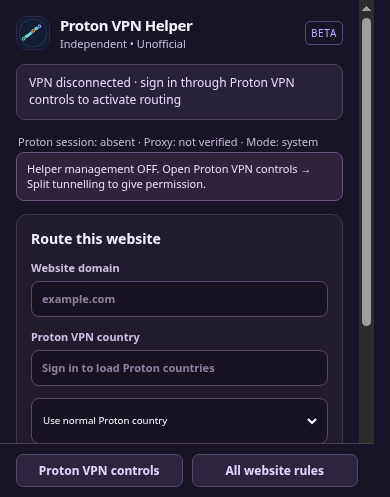
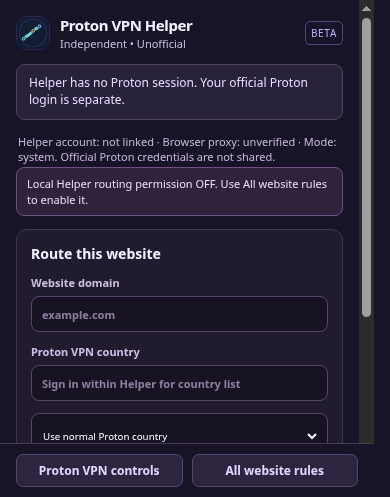
fix: clarify official Proton and Helper account boundaries
Official Proton session is isolated and cannot be imported by the Helper. Report the Helper session separately from another extension's active proxy; never imply the official VPN has disconnected. Headless Chromium and proxy coexistence tests passed; live account piggyback remains unsupported.

diff --git a/source/js/siteRouter/quickPopup.ts b/source/js/siteRouter/quickPopup.ts
@@ -5,6 +5,7 @@ import type {StoredWebsiteFilterList} from '../vpn/WebsiteFilter';
 import {SPLIT_CONSENT_KEY,hasSplitConsent} from './splitConsent';
 import type {HelperCountry,HelperCountryCatalog} from './countryCatalog';
 import {AUTO_PROBE_KEY} from './healthPreferences';
+import {connectionLabel,connectionDetail} from './connectionLabels';
 
 function element<T extends HTMLElement>(id:string):T {
   const found=document.getElementById(id);
@@ -102,7 +103,7 @@ async function refreshCountries():Promise<void> {
     updateFlag(old);
     element<HTMLInputElement>('country-search').disabled=!catalog.authenticated||!catalog.countries.length;
     if(!catalog.authenticated){
-      sourceLabel('Sign into Proton to load the same countries and flags as its original server list. No destinations are assumed.');
+      sourceLabel('Sign into Proton within the Helper to load account-eligible countries. Your official extension login is separate.');
     }else if(catalog.error){
       sourceLabel('Proton catalogue unavailable: '+catalog.error);
     }else if(!catalog.entitled){
@@ -112,7 +113,7 @@ async function refreshCountries():Promise<void> {
         catalog.countries.length+' shown including unavailable/upgrade locations.');
     }
     element<HTMLInputElement>('country-search').placeholder=catalog.authenticated?
-      'Search Proton countries':'Sign in to load Proton countries';
+      'Search Proton countries':'Sign in within Helper for country list';
     drawCountryList();
   }catch {
     providerCatalog=undefined;
@@ -149,8 +150,8 @@ async function getActiveTabHost():Promise<string|undefined> {
 async function refreshConsent():Promise<void> {
   delegated=await hasSplitConsent().catch(()=>false);
   element('helper-authority').textContent=delegated
-    ? 'Helper management allowed by Proton settings. Country rules may be applied when the VPN is connected.'
-    : 'Helper management OFF. Open Proton VPN controls → Split tunnelling to give permission.';
+    ? 'Local Helper routing permission enabled. Official Proton account sign-in and connection are separate.'
+    : 'Local Helper routing permission OFF. Use All website rules to enable it.';
   element<HTMLInputElement>('auto-detect').disabled=!delegated;
   element<HTMLInputElement>('auto-retry').disabled=!delegated;
 }
@@ -161,17 +162,9 @@ async function refreshConnection():Promise<void> {
       {connected?:boolean;proxyControl?:string;proxyMode?:string;signedIn?:boolean;
         ownsProxy?:boolean;selectedCountry?:string;selectedServer?:string};
     connectionOK=data?.connected===true;
-    element('connection-details').textContent=
-      'Proton session: '+(data?.signedIn?'present':'absent')+
-      ' · Proxy: '+(data?.ownsProxy?'owned by Helper':'not verified')+
-      ' · Mode: '+(data?.proxyMode||'unknown');
+    element('connection-details').textContent=connectionDetail(data);
     element<HTMLButtonElement>('verify-exit').disabled=!connectionOK;
-    status.textContent=connectionOK
-      ? 'Proton connected'+(data.selectedCountry ? ' · '+data.selectedCountry : '')+' · exit IP not verified'
-      : data?.proxyControl==='controlled_by_other_extensions'
-        ? 'Another extension controls the proxy · routes unavailable'
-        : data?.signedIn ? 'Proton session found (not independently validated) · VPN disconnected'
-          : 'VPN disconnected · sign in through Proton VPN controls to activate routing';
+    status.textContent=connectionLabel(data);
   }catch {
     connectionOK=false;
     element('connection-details').textContent='Connection diagnostics unavailable.';
@@ -262,7 +255,7 @@ async function refreshSite():Promise<void> {
       c.code===countrySelect().value && c.available));
   saveButton().disabled=!hasEligibleSelection;
   saveButton().textContent=!providerCatalog?.authenticated
-    ? 'Sign in to load Proton countries'
+    ? 'Sign in within Helper for country list'
     : 'Save website route';
   if (currentIssue.kind==='excluded') {
     notice.classList.remove('hidden');

diff --git a/tests/site_router.test.ts b/tests/site_router.test.ts
@@ -3,6 +3,7 @@ import {buildRoutePacCases, siteRouteBypassGuard} from '../source/js/siteRouter/
 import {evaluateSiteSplitConflict} from '../source/js/siteRouter/splitConflict';
 import {SplitTunnelingMode} from '../source/js/vpn/WebsiteFilter';
 import {helperMayRoute} from '../source/js/siteRouter/consentGate';
+import {connectionLabel,connectionDetail} from '../source/js/siteRouter/connectionLabels';
 import {countriesFromProtonLogicals} from '../source/js/siteRouter/countryCatalog';
 import {classifyBlock, DEFAULT_POLICY, findRule, normalizeDomain, validatePolicy} from '../source/js/siteRouter/policy';
 
@@ -149,4 +150,22 @@ test('Proton-derived catalog mirrors country availability and upgrade locks',()=
   assert.equal(plus.find(c=>c.code==='CH')?.serverCount,2);
   assert.equal(plus.find(c=>c.code==='GB')?.name,'United Kingdom');
   assert.equal(plus.filter(c=>c.available).length,4);
+});
+
+test('status distinguishes official Proton from Helper-owned account',()=>{
+  const separate=connectionLabel({connected:false,signedIn:false,proxyControl:'controlled_by_other_extensions'});
+  assert.match(separate,/Another extension controls/);
+  assert.match(separate,/cannot read/);
+  assert.doesNotMatch(separate,/VPN disconnected|Proton disconnected/);
+  const missing=connectionLabel({connected:false,signedIn:false,proxyControl:'controllable_by_this_extension'});
+  assert.match(missing,/Helper has no Proton session/);
+  assert.match(missing,/official Proton login is separate/);
+  const own=connectionLabel({connected:true,signedIn:true,ownsProxy:true,selectedCountry:'CH'});
+  assert.match(own,/Helper Proton connection reported active/);
+  assert.match(own,/external exit IP not verified/);
+  const pending=connectionLabel({connected:false,signedIn:true,ownsProxy:false});
+  assert.match(pending,/Helper has its own Proton session/);
+  const detail=connectionDetail({signedIn:false,proxyControl:'controlled_by_other_extensions',proxyMode:'pac_script'});
+  assert.match(detail,/Browser proxy: another extension/);
+  assert.match(detail,/Official Proton credentials are not shared/);
 });

diff --git a/source/js/siteRouter/connectionLabels.ts b/source/js/siteRouter/connectionLabels.ts
@@ -1,0 +1,38 @@
+/** A helper-owned Proton session is NOT the session of the official
+ * Proton VPN extension. Browser extension storage is isolated.
+ * Another proxy owner cannot be identified or treated as authenticated.
+ */
+export interface HelperConnectionView {
+  connected?: boolean;
+  signedIn?: boolean;
+  ownsProxy?: boolean;
+  proxyControl?: string;
+  proxyMode?: string;
+  selectedCountry?: string;
+}
+
+export function connectionLabel(state?: HelperConnectionView): string {
+  if (!state) return 'Helper connection status unavailable · VPN protection not verified';
+  if (state.connected) {
+    return 'Helper Proton connection reported active'+
+      (state.selectedCountry ? ' · '+state.selectedCountry : '')+
+      ' · external exit IP not verified';
+  }
+  if (state.proxyControl === 'controlled_by_other_extensions') {
+    return 'Another extension controls Brave’s proxy. Helper cannot read that extension’s Proton login.';
+  }
+  if (state.signedIn) {
+    return 'Helper has its own Proton session, but its VPN connection is not active.';
+  }
+  return 'Helper has no Proton session. Your official Proton login is separate.';
+}
+
+export function connectionDetail(state?: HelperConnectionView): string {
+  if (!state) return 'Helper connection diagnostics unavailable.';
+  const owner = state.ownsProxy ? 'Helper' :
+    state.proxyControl === 'controlled_by_other_extensions' ? 'another extension' : 'unverified';
+  return 'Helper account: '+(state.signedIn?'session present':'not linked')+
+    ' · Browser proxy: '+owner+
+    ' · Mode: '+(state.proxyMode || 'unknown')+
+    '. Official Proton credentials are not shared.';
+}

diff --git a/source/js/siteRouter/options.ts b/source/js/siteRouter/options.ts
@@ -1,4 +1,5 @@
 import {SPLIT_CONSENT_KEY,hasSplitConsent,setSplitConsent} from './splitConsent';
+import {connectionLabel} from './connectionLabels';
 import {DEFAULT_POLICY, STORE_KEY, validatePolicy, normalizeDomain, normalizeCountry,
 	type SiteRule, type SiteRouterPolicy} from './policy';
 
@@ -53,6 +54,7 @@ function render(policy: SiteRouterPolicy): void {
 }
 interface VpnStatus {
 	connected?: boolean;
+	signedIn?: boolean;
 	ownsProxy?: boolean;
 	proxyControl?: string;
 	delegated?: boolean;
@@ -71,9 +73,7 @@ async function refreshVpnStatus(): Promise<void> {
 	try {
 		const info = await chrome.runtime.sendMessage({type:'protonSiteRouterStatus'}) as VpnStatus;
 		if (!info?.connected) {
-			status.textContent = info?.proxyControl === 'controlled_by_other_extensions'
-				? 'Proxy controlled by another extension — routing unavailable'
-				: 'VPN disconnected — country routes not active';
+			status.textContent = connectionLabel(info);
 		} else {
 			const p = await fetchPolicy();
 			status.textContent = !info.delegated

diff --git a/source/js/siteRouter/providerCountries.ts b/source/js/siteRouter/providerCountries.ts
@@ -27,7 +27,7 @@ export async function listProtonCountries():Promise<HelperCountryCatalog> {
       if(!user?.VPN) return {authenticated:true,entitled:false,
         countries:[],generatedAt:Date.now(),error:'Subscription details unavailable'};
       const entitled=user.VPN.BrowserExtension === true;
-      // This is exactly the source used by Proton's original country picker.
+      // This is the same catalogue code as the original picker, but requires a Helper-owned login.
       const logicals=await getSortedLogicals();
       const countries=countriesFromProtonLogicals(logicals,getUserMaxTier(user),
         c=>getCountryNameOrCode(c));

diff --git a/source/helper-popup.html b/source/helper-popup.html
@@ -22,7 +22,7 @@
       <input id="site-host" type="text" autocomplete="off" spellcheck="false" placeholder="example.com">
     </label>
     <label class="field" for="country-search">Proton VPN country
-      <input id="country-search" type="search" autocomplete="off" spellcheck="false" placeholder="Sign in to load Proton countries">
+      <input id="country-search" type="search" autocomplete="off" spellcheck="false" placeholder="Sign in within Helper to load countries">
     </label>
     <div class="country-choice">
       <img id="current-country-flag" alt="" width="20" height="15" hidden>

diff --git a/tests/toolbar_integration.py b/tests/toolbar_integration.py
@@ -77,7 +77,7 @@ def main():
 
             for _ in range(40):
                 state=js("return document.querySelector('#vpn-status')?.textContent")
-                if state and 'VPN disconnected' in state: break
+                if state and 'Helper has no Proton session' in state: break
                 time.sleep(.15)
             else:
                 diagnostic=js("return Promise.race([chrome.runtime.sendMessage({type:'protonSiteRouterStatus'}).then(v=>({ok:v})).catch(e=>({error:String(e)})),new Promise(ok=>setTimeout(()=>ok({timeout:true}),1800))])")
@@ -108,7 +108,7 @@ def main():
             print('PASS bundled original Proton country SVG flags, no fabricated signed-out country list')
             catalog=js("return chrome.runtime.sendMessage({type:'protonSiteRouterCountries'})")
             assert catalog['authenticated'] is False and catalog['countries']==[], catalog
-            assert 'Sign into Proton' in js("return document.querySelector('#country-source').textContent")
+            assert 'Sign into Proton within the Helper' in js("return document.querySelector('#country-source').textContent")
             alarm=js("return chrome.alarms.get('protonVpnHelperConnectionHealth')")
             assert alarm and alarm['periodInMinutes']>=1,alarm
             health=js("return chrome.runtime.sendMessage({type:'protonSiteRouterHealth'})")
@@ -129,7 +129,7 @@ def main():
             print('PASS truthful disconnected state and automatic switching off by default')
             # Delegation is OFF by default. The Helper must not be able to
             # modify split tunnelling or activate a country route yet.
-            assert 'management OFF' in js("return document.querySelector('#helper-authority').textContent")
+            assert 'permission OFF' in js("return document.querySelector('#helper-authority').textContent")
             assert js("return document.querySelector('#save-route').disabled") is True
             consent_key='protonVpnHelperManageSplitTunnelingV1'
             assert js("return chrome.storage.local.get(arguments[0]).then(v=>v[arguments[0]]===true)",consent_key) is False
@@ -188,7 +188,7 @@ def main():
             wd('POST','/url',{'url':f'chrome-extension://{EXT_ID}/helper-popup.html'})
             for _ in range(45):
                 state=js("return document.querySelector('#helper-authority')?.textContent")
-                if state and 'management allowed' in state:break
+                if state and 'routing permission enabled' in state:break
                 time.sleep(.15)
             else:raise AssertionError('Helper did not mirror original Proton delegation toggle: '+str(state))
             print('PASS Helper instantly mirrors permission from original Proton controls')
@@ -349,7 +349,7 @@ def main():
             wd('POST','/url',{'url':f'chrome-extension://{EXT_ID}/helper-popup.html'})
             for _ in range(45):
                 state=js("return document.querySelector('#helper-authority')?.textContent")
-                if state and 'management OFF' in state:break
+                if state and 'permission OFF' in state:break
                 time.sleep(.15)
             else:raise AssertionError('Helper did not reflect revoked consent')
             status=js("return chrome.runtime.sendMessage({type:'protonSiteRouterStatus'})")

diff --git a/tests/browser_integration.py b/tests/browser_integration.py
@@ -69,14 +69,14 @@ def main():
             # VPN connection until Proton owns the proxy and is authenticated.
             for _ in range(35):
                 connection_status=js("return document.querySelector('#connection-status')?.textContent")
-                if connection_status and 'VPN disconnected' in connection_status:
+                if connection_status and 'Helper has no Proton session' in connection_status:
                     break
                 time.sleep(.2)
             else:
-                raise AssertionError("Disconnected VPN was not clearly reported: "+str(connection_status))
+                raise AssertionError("Separate Helper account status was not clearly reported: "+str(connection_status))
             status_response=js("""return chrome.runtime.sendMessage({type:'protonSiteRouterStatus'})""")
             assert status_response['connected'] is False, status_response
-            print("PASS settings visibly distinguish enabled rules from a disconnected VPN")
+            print("PASS settings distinguish saved rules from a separate Helper account login")
             probe=js("return new Promise(done=>chrome.runtime.sendNativeMessage('com.local.proton_site_router',{action:'status'},r=>done({reply:r||null,error:chrome.runtime.lastError?.message||null})))")
             print("NATIVE_HOST_PROBE", json.dumps(probe, sort_keys=True))
             assert js("return document.querySelector('#rule-count').textContent") == "0"

diff --git a/tests/coexistence_browser.py b/tests/coexistence_browser.py
@@ -59,6 +59,12 @@ chrome.runtime.onInstalled.addListener(async()=>{
       tabs=js("return chrome.tabs.query({})")
       assert not any((x.get('url') or '').endswith('/onboarding.html') for x in tabs),tabs
       print('PASS no automatic onboarding tab when helper is installed')
+      text=js("return document.querySelector('#vpn-status')?.textContent")
+      details=js("return document.querySelector('#connection-details')?.textContent")
+      assert text and ('Another extension controls' in text or 'Helper has no Proton session' in text),(text,details)
+      assert 'VPN disconnected' not in text,(text,details)
+      assert 'Official Proton credentials are not shared' in details
+      print('PASS Helper distinguishes account scopes without falsely claiming official VPN disconnected')
       health=js("return chrome.runtime.sendMessage({type:'protonSiteRouterHealth'})")
       assert health['signedIn'] is False and health['connected'] is False,health
       state=js("return chrome.proxy.settings.get({})")

diff --git a/README.md b/README.md
@@ -28,6 +28,14 @@ The helper is designed to make three things possible: save a country per website
 
 Proton's existing engine remains responsible for authentication, server eligibility, connections and browser proxy settings. This is **one modified extension**, not a second extension fighting Proton for proxy control.
 
+## Using your existing official Proton account
+
+**Signing into Proton VPN's official Brave extension does not sign the Helper in.** The two browser extensions have separate storage and authentication. Proton's official extension currently permits external messaging from the Proton account website, **not from this independent Helper extension**. The Helper therefore cannot automatically read the official account session, its subscription or its live country list, and must not attempt to copy private tokens.
+
+If you are already signed into official Proton, the Helper now says **"Helper has no Proton session. Your official Proton login is separate."** rather than incorrectly claiming your entire VPN is disconnected. If another extension controls the browser proxy, it reports that separately without asserting whose account owns it. The original Proton connection remains authoritative.
+
+An authorised integration exposed by Proton, or signing into the fork separately using Proton's user-driven account flow, is required before the Helper can actually load subscription-entitled countries or perform authenticated country routing. **Neither route has been verified for this fork.**
+
 ## Proton countries and real connection evidence
 
 The Helper now uses **Proton's own live server catalogue**, including country names and the original flag SVGs, rather than a hard-coded list of destinations. Once signed into Proton, the list reflects which countries the subscription can actually use; locked and unavailable countries are identified but cannot be selected.

diff --git a/docs/CONNECTION_VERIFICATION.md b/docs/CONNECTION_VERIFICATION.md
@@ -47,3 +47,9 @@ To demonstrate a working Proton connection after the user signs in:
 **Do not claim release readiness or production VPN protection until these pass.** Synthetic local TLS proxy tests validate PAC routing only.
 
 References: [Proton browser extension limitations](https://protonvpn.com/support/browser-extension-limitations), [Proton's external-IP verification instructions](https://protonvpn.com/support/vpn-ip-change), [country.is](https://country.is/).
+
+## Why your official Proton sign-in is not automatically discovered
+
+Your signed-in official Proton browser extension and Proton VPN Helper have different extension IDs and separate storage. The installed official Proton extension's `externally_connectable` setting allows `https://account.proton.me/*` only, with **no allowed external extension IDs**. Browser extension messaging cannot be used to access its private sign-in state. The Helper must never claim the original Proton session is absent just because **its own** session is absent.
+
+The current UI distinguishes **Helper session not linked**, **browser proxy owned by another extension**, and **Helper-connected with an unverified exit IP**. Observing another extension's proxy is not evidence of that extension's authenticated account or subscription, so do not infer those details from proxy settings. An official Proton integration API or a distinct user-approved Proton login is required for account-scoped country routing.

diff --git a/PRIVACY.md b/PRIVACY.md
@@ -29,3 +29,7 @@ The combined extension stores a local boolean permission that defaults off. It i
 ## Optional public-IP verification
 
 The browser extension automatically observes Proton's connection state and Chrome proxy ownership locally. External checks are **off by default** and use https://api.country.is/ only after an explicit button click or when recurring verification is enabled. Country.is receives the public IP of each check. No Proton credentials, page content, or saved website rules are sent. Exit-IP results stay in extension memory and expire after five minutes; a changed connection invalidates the evidence.
+
+## Official Proton account isolation
+
+The Helper does not read, export or duplicate account tokens from another browser extension. Signing in to the official Proton extension does not authorise this independent extension to read its login state. Status messages only describe the Helper's own account session and observable browser proxy ownership.
